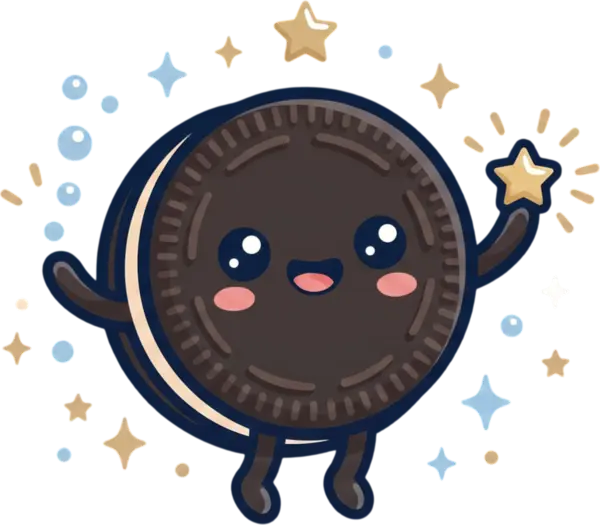
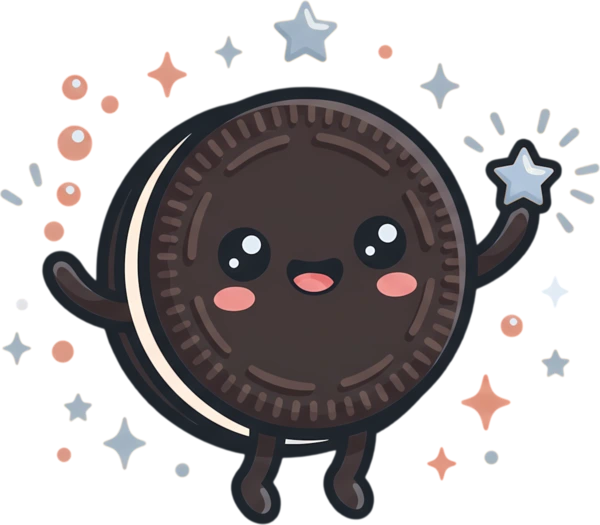
style(site): swap in the coral recolor for the mascot and wordmark
Both assets replaced with Harkirat's coral palette versions (standing
pose for the mascot, over the "full" pose — cleaner silhouette, and the
standard black outline over the brownline variant for contrast against
the dark UI). Source PNGs had a large transparent margin around the
actual artwork; trimmed to content bounds (fuzz 4%, stable across 2-6%)
before re-encoding, so nothing scales down inside its own box on-page.
Exported at 600px width WebP. The wordmark's real aspect ratio shifted
slightly after trimming (2.138 -> 2.151), so its hardcoded width/height
attributes in wordmark() are updated to match — those exist to reserve
layout space before the image loads, and a stale ratio would have
reserved a very slightly wrong box. The mascot's trimmed dimensions
came out at exactly 600x525, identical to before, so its attributes are
unchanged.

diff --git a/public/changelog/index.html b/public/changelog/index.html
@@ -1987,7 +1987,7 @@ h2:hover .anchor,h3:hover .anchor{opacity:1}}@media (hover:hover) and (pointer:f
 <div class="bar">
   <a class="mark live" href="../legal/">
     <span class="mk-s">
-      <img class="wm" src="../assets/dioreo-wordmark.webp" width="900" height="421" alt="Dioreo">
+      <img class="wm" src="../assets/dioreo-wordmark.webp" width="600" height="279" alt="Dioreo">
       <span class="mk-ctx"><i aria-hidden="true"></i>What's New</span>
     </span>
     <span class="go" aria-hidden="true">&#8250;</span>

diff --git a/public/changelog/detailed.html b/public/changelog/detailed.html
@@ -1992,7 +1992,7 @@ h2:hover .anchor,h3:hover .anchor{opacity:1}}@media (hover:hover) and (pointer:f
 <div class="bar">
   <a class="mark live" href="../legal/">
     <span class="mk-s">
-      <img class="wm" src="../assets/dioreo-wordmark.webp" width="900" height="421" alt="Dioreo">
+      <img class="wm" src="../assets/dioreo-wordmark.webp" width="600" height="279" alt="Dioreo">
       <span class="mk-ctx"><i aria-hidden="true"></i>Changelog</span>
     </span>
     <span class="go" aria-hidden="true">&#8250;</span>

diff --git a/public/changelog/devlog.html b/public/changelog/devlog.html
@@ -1995,7 +1995,7 @@ h2:hover .anchor,h3:hover .anchor{opacity:1}}@media (hover:hover) and (pointer:f
 <div class="bar">
   <a class="mark live" href="../legal/">
     <span class="mk-s">
-      <img class="wm" src="../assets/dioreo-wordmark.webp" width="900" height="421" alt="Dioreo">
+      <img class="wm" src="../assets/dioreo-wordmark.webp" width="600" height="279" alt="Dioreo">
       <span class="mk-ctx"><i aria-hidden="true"></i>Devlog</span>
     </span>
     <span class="go" aria-hidden="true">&#8250;</span>

diff --git a/scripts/buildLegalPages.js b/scripts/buildLegalPages.js
@@ -1388,7 +1388,7 @@ const wordmark = (href, cur) => {
     // landing hero has the room and gets the mascot alone instead of the
     // combo lockup, per Harkirat's own asset choice.
     const [src, w, h] = href
-        ? ['../assets/dioreo-wordmark.webp', 900, 421]
+        ? ['../assets/dioreo-wordmark.webp', 600, 279]
         : ['../assets/dioreo-mascot.webp', 600, 525];
     const body = `<span class="mk-s">
       <img class="wm${href ? '' : ' wm-hero'}" src="${src}" width="${w}" height="${h}" alt="Dioreo">

diff --git a/public/legal/notice.html b/public/legal/notice.html
@@ -2264,7 +2264,7 @@ html{scroll-behavior:smooth}
 <div class="bar">
   <a class="mark live" href="./">
     <span class="mk-s">
-      <img class="wm" src="../assets/dioreo-wordmark.webp" width="900" height="421" alt="Dioreo">
+      <img class="wm" src="../assets/dioreo-wordmark.webp" width="600" height="279" alt="Dioreo">
       <span class="mk-ctx"><i aria-hidden="true"></i>Notices &amp; Attributions</span>
     </span>
     <span class="go" aria-hidden="true">&#8250;</span>

diff --git a/public/legal/license.html b/public/legal/license.html
@@ -2264,7 +2264,7 @@ html{scroll-behavior:smooth}
 <div class="bar">
   <a class="mark live" href="./">
     <span class="mk-s">
-      <img class="wm" src="../assets/dioreo-wordmark.webp" width="900" height="421" alt="Dioreo">
+      <img class="wm" src="../assets/dioreo-wordmark.webp" width="600" height="279" alt="Dioreo">
       <span class="mk-ctx"><i aria-hidden="true"></i>Source-Available License</span>
     </span>
     <span class="go" aria-hidden="true">&#8250;</span>

diff --git a/public/legal/terms.html b/public/legal/terms.html
@@ -2264,7 +2264,7 @@ html{scroll-behavior:smooth}
 <div class="bar">
   <a class="mark live" href="./">
     <span class="mk-s">
-      <img class="wm" src="../assets/dioreo-wordmark.webp" width="900" height="421" alt="Dioreo">
+      <img class="wm" src="../assets/dioreo-wordmark.webp" width="600" height="279" alt="Dioreo">
       <span class="mk-ctx"><i aria-hidden="true"></i>Terms of Service</span>
     </span>
     <span class="go" aria-hidden="true">&#8250;</span>

diff --git a/public/legal/privacy.html b/public/legal/privacy.html
@@ -2264,7 +2264,7 @@ html{scroll-behavior:smooth}
 <div class="bar">
   <a class="mark live" href="./">
     <span class="mk-s">
-      <img class="wm" src="../assets/dioreo-wordmark.webp" width="900" height="421" alt="Dioreo">
+      <img class="wm" src="../assets/dioreo-wordmark.webp" width="600" height="279" alt="Dioreo">
       <span class="mk-ctx"><i aria-hidden="true"></i>Privacy Policy</span>
     </span>
     <span class="go" aria-hidden="true">&#8250;</span>

diff --git a/public/legal/contributing.html b/public/legal/contributing.html
@@ -2229,7 +2229,7 @@ html{scroll-behavior:smooth}
 <div class="bar">
   <a class="mark live" href="./">
     <span class="mk-s">
-      <img class="wm" src="../assets/dioreo-wordmark.webp" width="900" height="421" alt="Dioreo">
+      <img class="wm" src="../assets/dioreo-wordmark.webp" width="600" height="279" alt="Dioreo">
       <span class="mk-ctx"><i aria-hidden="true"></i>Contributing</span>
     </span>
     <span class="go" aria-hidden="true">&#8250;</span>

diff --git a/public/legal/contributors.html b/public/legal/contributors.html
@@ -2229,7 +2229,7 @@ html{scroll-behavior:smooth}
 <div class="bar">
   <a class="mark live" href="./">
     <span class="mk-s">
-      <img class="wm" src="../assets/dioreo-wordmark.webp" width="900" height="421" alt="Dioreo">
+      <img class="wm" src="../assets/dioreo-wordmark.webp" width="600" height="279" alt="Dioreo">
       <span class="mk-ctx"><i aria-hidden="true"></i>Contributors</span>
     </span>
     <span class="go" aria-hidden="true">&#8250;</span>
